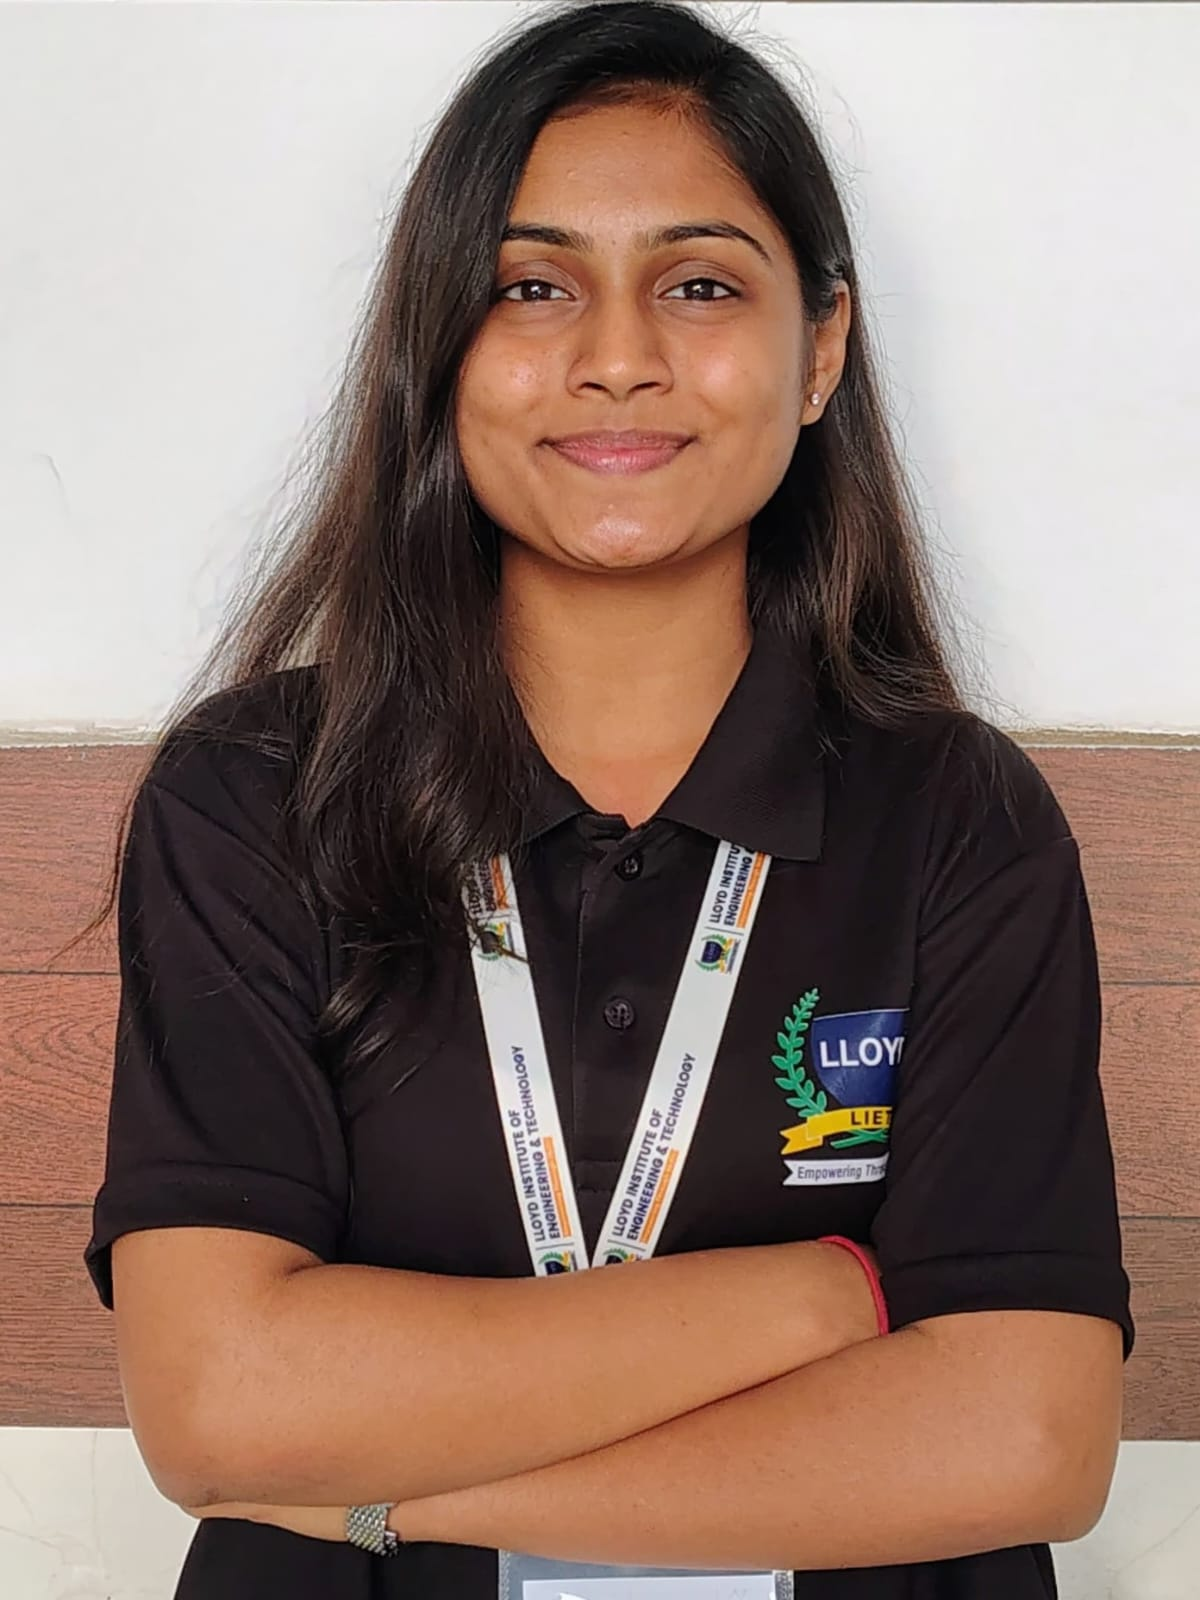
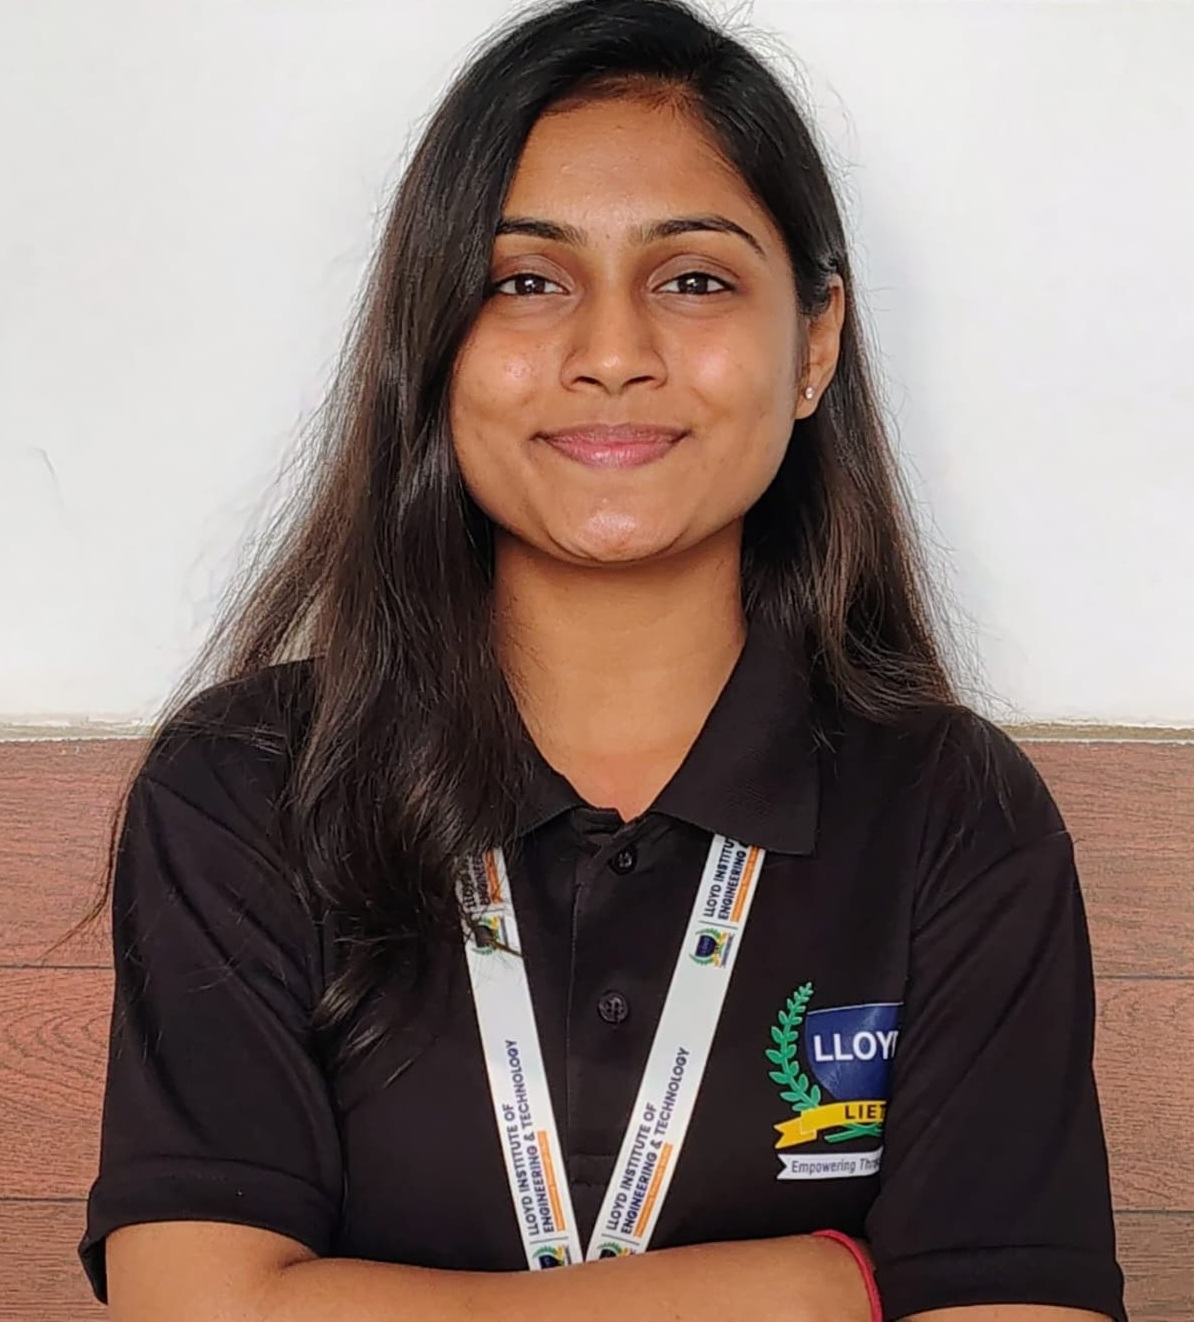
added photos.

diff --git a/src/components/TeamSection.tsx b/src/components/TeamSection.tsx
@@ -23,7 +23,7 @@ const teamMembers = [
     name: "Prashant Mishra",
     role: "Event Coordinator",
     phone: "6306995599",
-    image: "/team/Sample.jpeg",
+    image: "/team/prashant.jpeg",
   },
   {
     name: "Akalp Mishra",
